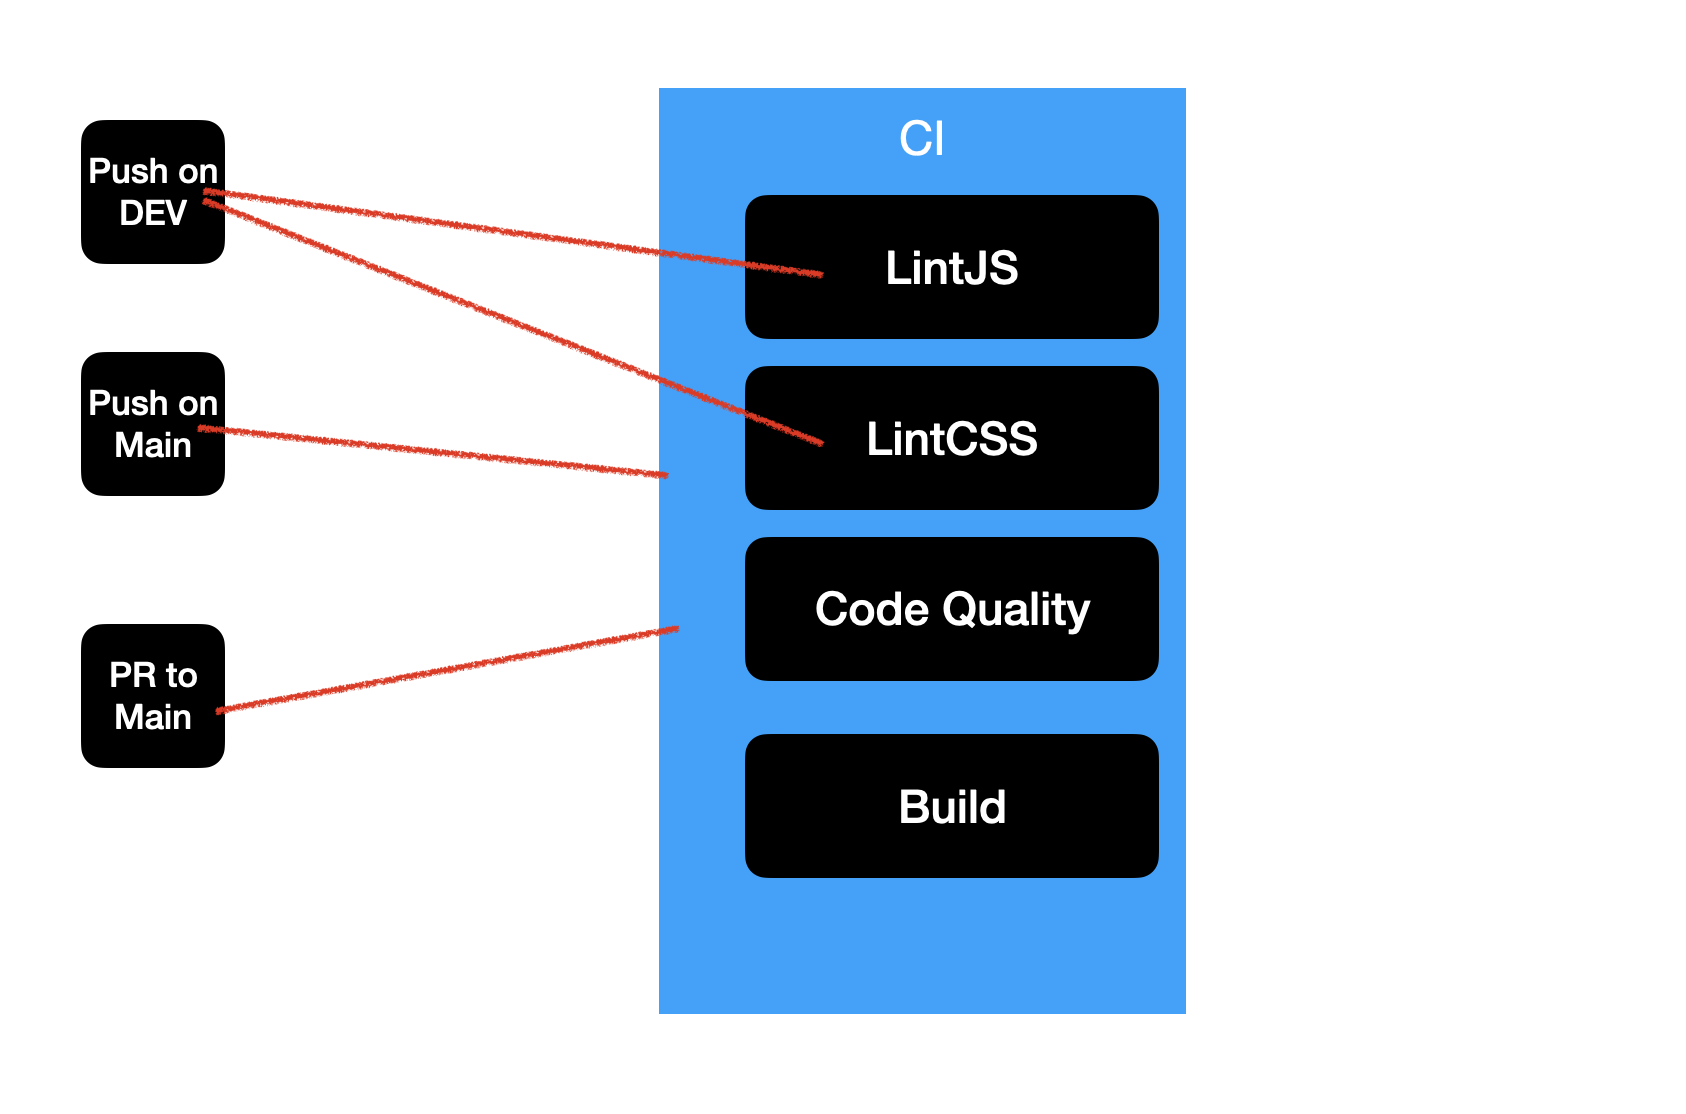
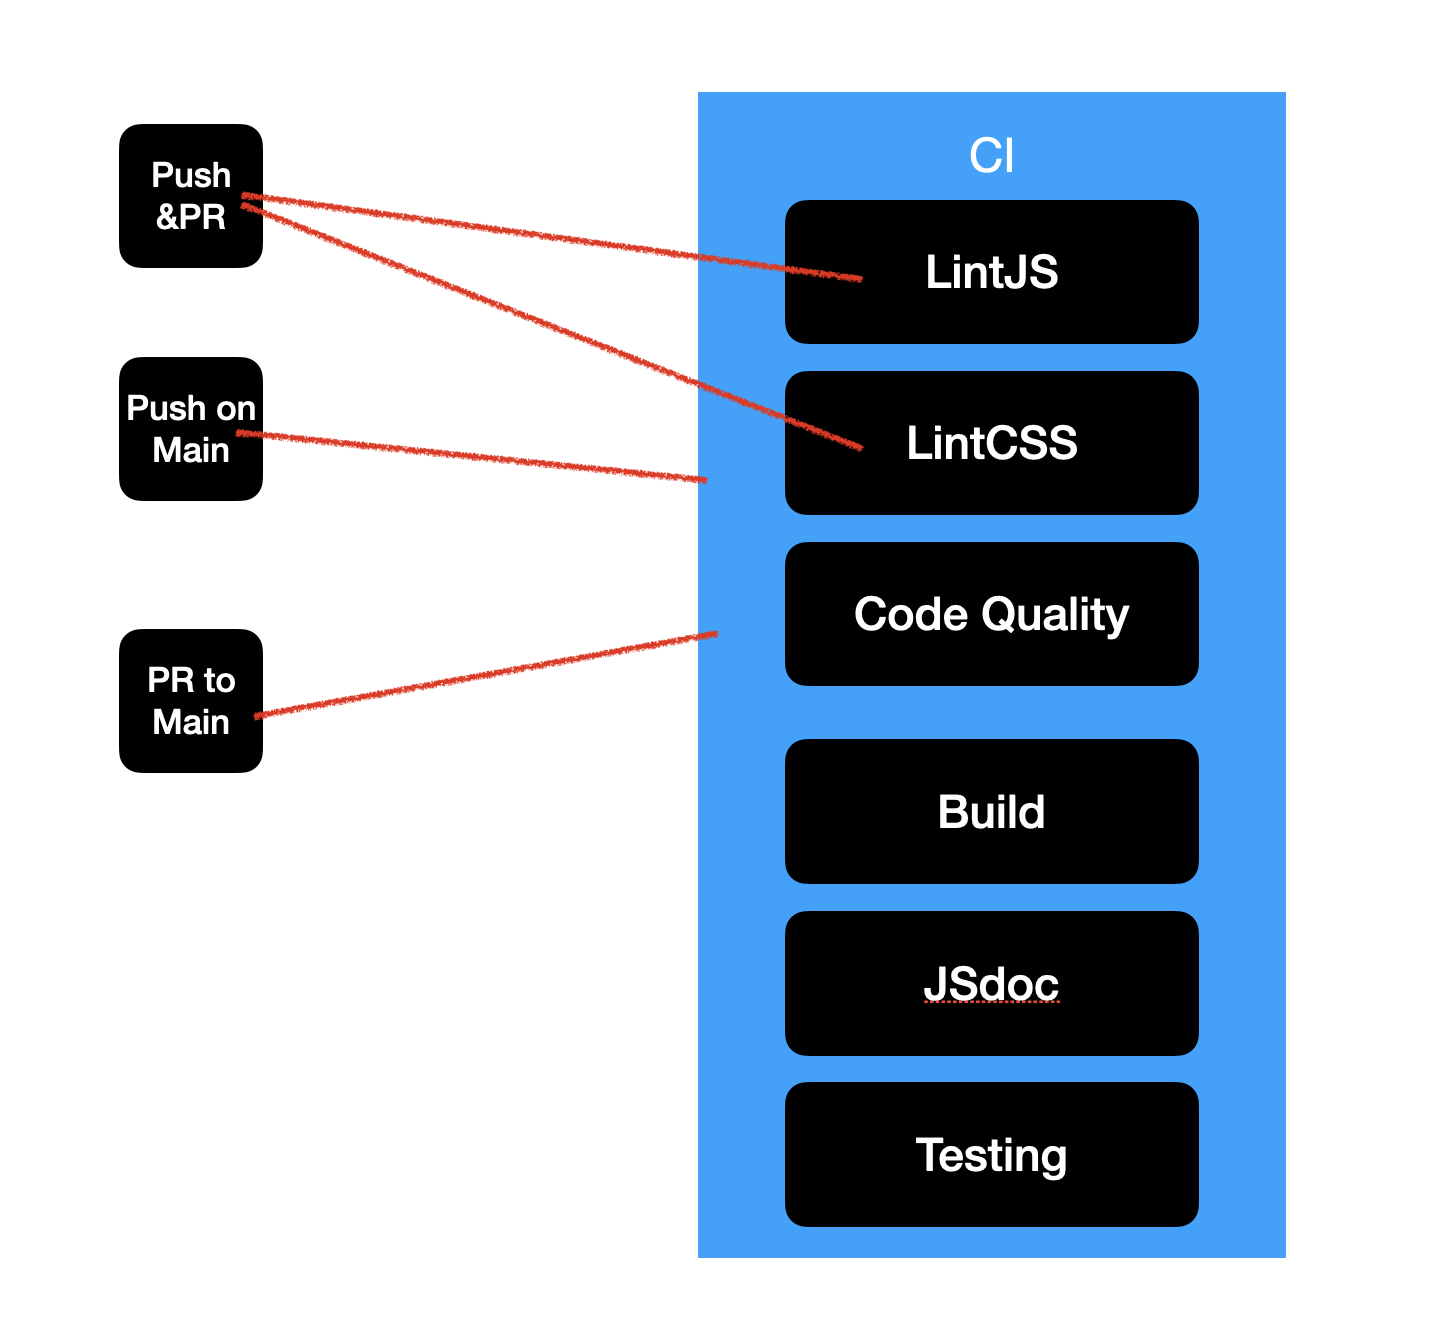
pipeline

diff --git a/admin/cipipeline/phase1.md b/admin/cipipeline/phase1.md
@@ -1,35 +1,40 @@
 # CI/CD for mixMatch
 
-> a short 2 page (roughly) status on the pipeline in terms of what is currently functional (and what is planned or in progress). Embed your diagram in the markdown file.
-
 **Below is the diagram for the pipeline**
 
 ![](phase1.png)
 
 ## What is currently functional
+
 - [x] Linting
-  - LintJS
-    - Using ESLint to lint the JavaScript code
-      - It will trigger when a pull request is made on **all branches** and push to **all branches**
-      - We will comply with the Google style guide
-  - LintCSS
-    - Using Stylelint to lint the CSS code
-    - It will trigger when a pull request is made on **all branches** and push to **all branches**
+    - LintJS
+        - Using ESLint to lint the JavaScript code
+            - It will trigger when a pull request is made on **all branches** and push to **all branches**
+            - We will comply with the Google style guide
+    - LintCSS
+        - Using Stylelint to lint the CSS code
+        - It will trigger when a pull request is made on **all branches** and push to **all branches**
 - [x] Code Quality
-  - using GitHub build in for code quality and security check
-  - It will trigger when a pull request is made on **main branch** and push to **main branch**
+    - using GitHub build in for code quality and security check
+    - It will trigger when a pull request is made on **main branch** and push to **main branch**
 - [x] Build
-  - Build the project using npm command, which will run the test and build the project
-  - Ensure the new codes and functions will not break the current project
+    - Build the project using npm command, which will run the test and build the project
+    - Ensure the new codes and functions will not break the current project
+        - It will trigger when a pull request is made on **main branch** and push to **main branch**
+- [x] Test
+    - Run the test using npm command
+        - This is use to testing all the APIs and functions and testing app functionality.
+        - It can help us to ensure the new codes and functions will not break the current project, and also ensure the
+          new functions are working as expected. It is designed to be run on the main branch. And it will indicate which
+          API or function is not working as expected. So we can fix it before merging the new codes to the main branch.
+    - It will trigger when a pull request is made on **main branch** and push to **main branch**
+- [x] JSdoc
+    - Generate the documentation using jsdoc
+        - This is use to generate the documentation for the project
+        - The documentation will be generate from the comments in the code, provide the information about the function
+          and the parameters, and the return value. For some function, it will also provide the example of how to use
+          the function and the expected output. This can help the developer to understand the function and how to use.
+        - A github page will be created to host the documentation
     - It will trigger when a pull request is made on **main branch** and push to **main branch**
 
-## What is in progress
-- [ ] Auto Testing
-  - Unit Testing (waiting to work with testing team)
-  - Integration Testing (waiting to work with testing team)
-  - Smoke Testing (waiting to work with testing team)
-
-- [ ] Deployment (since we are still in the development phase, we will not generate package for deployment)
-  - Deploy the project as installer for Windows, Mac, and Linux
-  - It will trigger when a pull request is made on main branch and push to main branch
 
